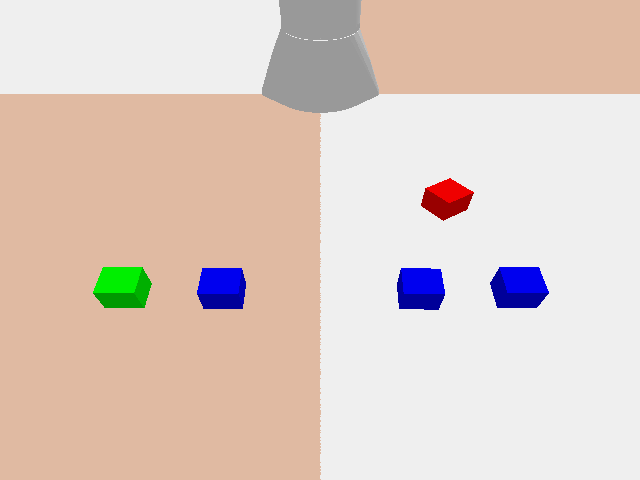
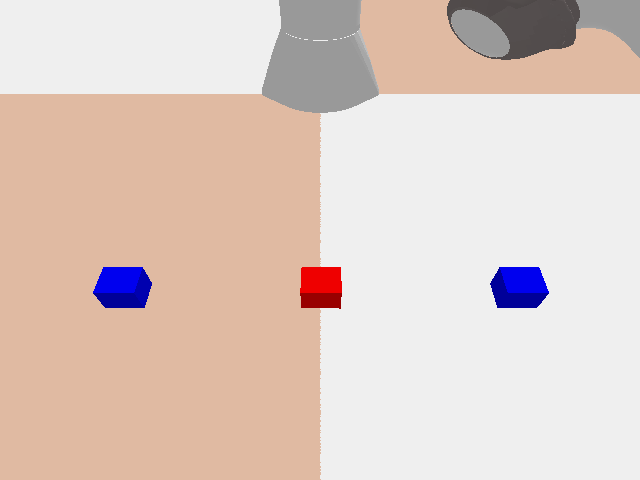
物体の位置調整、グリッパー制御の最大速度を追加し、ログ記録を更新

diff --git a/grasp.py b/grasp.py
@@ -57,7 +57,7 @@ def bbox_to_world(x1, y1, x2, y2, depth, camera_position, camera_target):
     cam_point = np.array([x_cam, y_cam, z_cam, 1.0])
     world_point = inv_view @ cam_point
 
-    return [world_point[0]-0.3, world_point[1], 0.0]
+    return [world_point[0]-0.3, world_point[1]*100, 0.0]
 
 def is_grasp_successful(panda_id, object_ids, threshold=0.1):
     # Pandaのエンドエフェクタ（リンク11）の位置
@@ -71,23 +71,23 @@ def is_grasp_successful(panda_id, object_ids, threshold=0.1):
             return True, obj_id
     return False, None
 
-def try_grasp_with_retries(panda_id, detected_world_pos, object_ids, max_attempts=10):
+def try_grasp_with_retries(panda_id, detected_world_pos, object_ids, max_attempts=20):
     for attempt in range(max_attempts):
+        # 初期位置に戻る
+        # move_to_joint_position(panda_id, HOME_JOINT_ANGLES)
         # グリッパーを開く
         for j in [9, 10]:
-            p.setJointMotorControl2(panda_id, j, p.POSITION_CONTROL, targetPosition=0.04, force=10)
-        # 初期位置に戻る
-        move_to_joint_position(panda_id, HOME_JOINT_ANGLES)
+            p.setJointMotorControl2(panda_id, j, p.POSITION_CONTROL, targetPosition=0.04, force=10, maxVelocity=0.1)
         # 逆運動学でエンドエフェクタを移動
         joint_angles = p.calculateInverseKinematics(panda_id, endEffectorLinkIndex=11, targetPosition=detected_world_pos) 
         for i in range(len(joint_angles)):
-            p.setJointMotorControl2(panda_id, i, p.POSITION_CONTROL, joint_angles[i], force=100)
+            p.setJointMotorControl2(panda_id, i, p.POSITION_CONTROL, joint_angles[i], force=100, maxVelocity=0.1)
         for _ in range(100):  # 動作反映まで待つ
             p.stepSimulation()
 
         # グリッパーを閉じる
         for j in [9, 10]:
-            p.setJointMotorControl2(panda_id, j, p.POSITION_CONTROL, targetPosition=0.0, force=10)
+            p.setJointMotorControl2(panda_id, j, p.POSITION_CONTROL, targetPosition=0.0, force=10, maxVelocity=0.1)
         for _ in range(50):
             p.stepSimulation()
             # time.sleep(1. / 240.)  # PyBulletデフォルトのシミュレーション速度に合わせる

diff --git a/sort.py b/sort.py
@@ -29,14 +29,14 @@ def sort_object_by_color(panda_id, picked_id, color_name, drop_height=0.2):
     # 逆運動学で分別位置に移動
     joint_angles = p.calculateInverseKinematics(panda_id, 11, target_pos, target_orient)
     for i in range(len(joint_angles)):
-        p.setJointMotorControl2(panda_id, i, p.POSITION_CONTROL, joint_angles[i], force=100)
+        p.setJointMotorControl2(panda_id, i, p.POSITION_CONTROL, joint_angles[i], force=100, maxVelocity=0.1)
 
     for _ in range(100):
         p.stepSimulation()
 
     # グリッパーを開いて投下
     for j in [9, 10]:
-        p.setJointMotorControl2(panda_id, j, p.POSITION_CONTROL, targetPosition=0.04, force=10)
+        p.setJointMotorControl2(panda_id, j, p.POSITION_CONTROL, targetPosition=0.04, force=10, maxVelocity=0.1)
 
     for _ in range(50):
         p.stepSimulation()

diff --git a/main.py b/main.py
@@ -23,7 +23,7 @@ panda_id = p.loadURDF("franka_panda/panda.urdf", useFixedBase=True)
 # 立方体オブジェクトを複数配置
 object_ids = []
 colors = [(0, 1, 0, 1), (1, 0, 0, 1), (0, 0, 1, 1), (1, 0, 0, 1), (1, 0, 0, 1)]
-positions = [[0.5, -0.2, 0.02], [0.5, -0.1, 0.02], [0.5, 0.0, 0.02], [0.5, 0.1, 0.02], [0.5, 0.2, 0.02]]
+positions = [[0.5, -0.4, 0.02], [0.5, -0.2, 0.02], [0.5, 0.0, 0.02], [0.5, 0.2, 0.02], [0.5, 0.4, 0.02]]
 for color, pos in zip(colors, positions):
     visual_shape = p.createVisualShape(p.GEOM_BOX, halfExtents=[0.02]*3, rgbaColor=color)
     collision_shape = p.createCollisionShape(p.GEOM_BOX, halfExtents=[0.02]*3)
